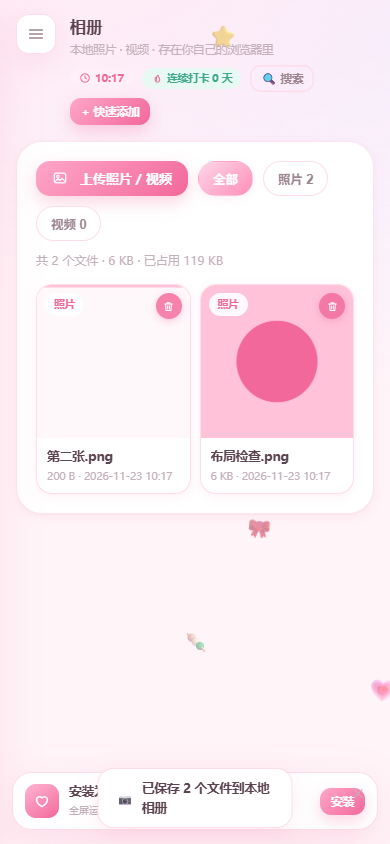
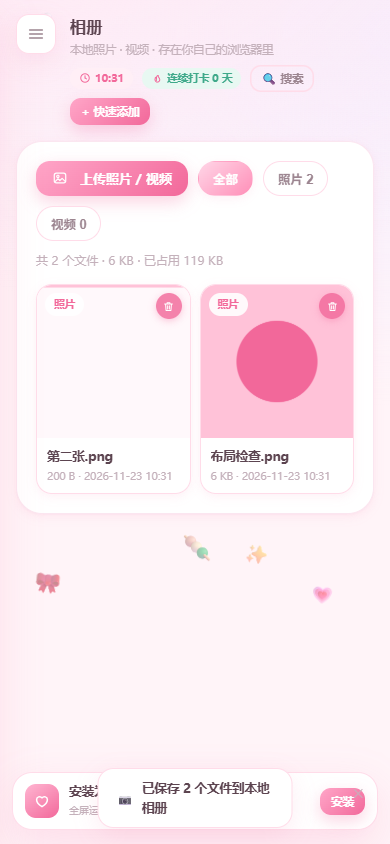
feat(web): v1.9.0 自动检测新版本并弹提示刷新
- 用样式化提示条（#swUpdateBar）替换原生 confirm：常驻可点、不打断流程
- 规范更新流程：updatefound→installed 存 waitingWorker → 点击 postMessage skip-waiting
  → controllerchange 统一 reload（带 3.5s 兜底），消除旧的「先发消息立即 reload」竞态
- 打开应用时主动 reg.update()，此后每 30 分钟后台复查
- 首次安装不弹提示（bootedWithController 区分首装会话，SW_UPDATED 仅在带旧版启动时响应）
- sw.js：activate 后向客户端广播 SW_UPDATED；message 兼容字符串/结构化两种 skip-waiting
- SW 缓存版本 xiaobao-desk-v1.9.0；test_web_robust 版本断言同步 1.9.0
- 新增 test_web_update.js（11 断言）：本地 http 服务器动态换 sw.js 版本，
  验证 首装无提示→update 后提示条出现→点击刷新→新 SW 接管+旧缓存清理
- 回归全绿：validate 0；lunar 45、gallery 26、calendar 24、profile 16、
  robust 10、daydetail 10、all-modules 42、update 11

diff --git a/index.html b/index.html
@@ -671,6 +671,21 @@ input[type=date]{cursor:pointer;}
 }
 @keyframes toastIn{from{opacity:0;transform:translateY(14px) scale(.94)}to{opacity:1;transform:none}}
 
+/* 版本更新提示条 */
+#swUpdateBar{
+  position:fixed;left:50%;bottom:64px;transform:translateX(-50%);z-index:350;
+  background:linear-gradient(140deg,#FF8FB8,#F2689A);color:#fff;
+  padding:11px 22px;border-radius:999px;border:none;cursor:pointer;
+  font-size:13px;font-weight:800;letter-spacing:.3px;
+  box-shadow:0 6px 22px rgba(242,104,154,.45);
+  animation:toastIn .3s cubic-bezier(.22,.85,.3,1);
+  transition:transform .15s;
+}
+#swUpdateBar:hover{transform:translateX(-50%) translateY(-2px);}
+@media (max-width:420px){
+  #swUpdateBar{bottom:74px;font-size:12.5px;padding:10px 18px;white-space:nowrap;}
+}
+
 /* 彩带 */
 .confetti{position:fixed;width:9px;height:9px;z-index:400;pointer-events:none;border-radius:2px;}
 
@@ -811,7 +826,7 @@ input[type=range]::-moz-range-thumb{
       <button class="btn ghost sm block" id="installBtn" style="display:none">添加到桌面 / 主屏幕</button>
       <button class="btn ghost sm block" id="themeBtn">切换夜间模式</button>
       <button class="btn ghost sm block" id="exportBtn">导出备份数据</button>
-      <div class="tiny" style="text-align:center;opacity:.55;padding-top:4px">Web v<span id="webVer">1.8.0</span></div>
+      <div class="tiny" style="text-align:center;opacity:.55;padding-top:4px">Web v<span id="webVer">1.9.0</span></div>
     </div>
   </aside>
 
@@ -1597,7 +1612,7 @@ function renderAll(){
 }
 /* 渲染兜底：任何一个模块渲染出错时给出明确提示（并显示错误信息方便定位），
    而不是静默空白 —— 旧标签页/旧缓存跑着半成品构建时也能看出该刷新了 */
-const WEB_VERSION='1.8.0';
+const WEB_VERSION='1.9.0';
 function safeRender(id,fn){
   return function(){
     try{ fn(); }
@@ -4042,29 +4057,58 @@ startClock();
 window.addEventListener('beforeunload',()=>{ if(dirty){ try{ localStorage.setItem(KEY,JSON.stringify(DB)); }catch(e){} } });
 
 /* =====================================================================
-   9. PWA：注册 Service Worker + 安装到主屏幕
+   9. PWA：注册 Service Worker + 版本更新提示 + 安装到主屏幕
    ===================================================================== */
 (function initPWA(){
   if(!('serviceWorker' in navigator)) return;
-  window.addEventListener('load',()=>{
-    navigator.serviceWorker.register('sw.js').then(reg=>{
-      // 发现新版本时提示更新
-      reg.addEventListener('updatefound',()=>{
-        const nw=reg.installing;
-        nw&&nw.addEventListener('statechange',()=>{
-          if(nw.state==='installed'&&navigator.serviceWorker.controller){
-            if(window.confirm('工作台有新版本，是否刷新以应用更新？')){
-              nw.postMessage('skip-waiting');
-              window.location.reload();
-            }
-          }
-        });
-      });
-    }).catch(()=>{ /* file:// 或静态环境不支持时静默降级 */ });
+  /* 页面启动时是否已有旧 SW 控制：首次安装的会话（启动时无 controller）
+     不弹更新提示 —— 此时拿到的本来就是最新版 */
+  const bootedWithController=!!navigator.serviceWorker.controller;
+  /* 更新提示条：不用原生 confirm（体验差且会打断流程），
+     常驻条 + 点击刷新，等新 SW 接管页面后再统一 reload 一次 */
+  let waitingWorker=null;
+  window.showUpdateBar=function(ver){
+    if(document.querySelector('#swUpdateBar')) return;
+    const bar=document.createElement('div');
+    bar.id='swUpdateBar';
+    bar.innerHTML=`✨ 发现新版本${ver?(' v'+String(ver).replace(/^xiaobao-desk-v/,'')):''} · 点此刷新`;
+    bar.onclick=()=>{
+      window.__swUpdateClicked=true;
+      (waitingWorker||navigator.serviceWorker.controller||{postMessage:()=>{}}).postMessage('skip-waiting');
+      /* controllerchange 到来后由下方监听统一 reload；兜底：3.5s 内没接管就直接刷 */
+      setTimeout(()=>{ if(document.querySelector('#swUpdateBar')) location.reload(); },3500);
+    };
+    document.body.appendChild(bar);
+  };
+  navigator.serviceWorker.addEventListener('message',e=>{
+    if(e.data&&e.data.type==='SW_UPDATED'&&bootedWithController&&navigator.serviceWorker.controller){
+      /* 新 SW 已接管（如另一标签页点了刷新）：提示本页也可刷新 */
+      window.showUpdateBar(e.data.version);
+    }
   });
   let refreshing=false;
   navigator.serviceWorker.addEventListener('controllerchange',()=>{
-    if(refreshing) return; refreshing=true; window.location.reload();
+    /* 仅在我们主动点「刷新」后重载，避免首次安装触发多余刷新 */
+    if(refreshing) return;
+    if(!window.__swUpdateClicked) return;
+    refreshing=true; window.location.reload();
+  });
+  window.addEventListener('load',()=>{
+    navigator.serviceWorker.register('sw.js').then(reg=>{
+      reg.addEventListener('updatefound',()=>{
+        const nw=reg.installing;
+        if(!nw) return;
+        nw.addEventListener('statechange',()=>{
+          if(nw.state==='installed'&&navigator.serviceWorker.controller){
+            waitingWorker=nw;
+            window.showUpdateBar();
+          }
+        });
+      });
+      /* 打开应用时主动检查一次新版本；此后每 30 分钟后台复查 */
+      reg.update().catch(()=>{});
+      setInterval(()=>reg.update().catch(()=>{}),30*60*1000);
+    }).catch(()=>{ /* file:// 或静态环境不支持时静默降级 */ });
   });
 })();
 

diff --git a/.spec/test_web_update.js b/.spec/test_web_update.js
@@ -1,0 +1,97 @@
+/* 版本更新提示真实流程测试：
+   本地 http 服务器托管仓库根目录，/sw.js 可动态换版本；
+   验证「打开无提示 → SW 更新后提示条出现 → 点击刷新 → 新 SW 接管」。 */
+const puppeteer = require('puppeteer-core');
+const http = require('http');
+const fs = require('fs');
+const path = require('path');
+const ROOT = path.resolve(__dirname, '..');
+
+let pass = 0, fail = 0;
+const t = (name, ok, extra) => { ok ? pass++ : fail++; console.log((ok ? '✓ ' : '✗ ') + name + (extra ? ' — ' + extra : '')); };
+const sleep = ms => new Promise(r => setTimeout(r, ms));
+
+const MIME = { '.html': 'text/html; charset=utf-8', '.js': 'text/javascript', '.webmanifest': 'application/manifest+json', '.png': 'image/png', '.json': 'application/json' };
+let swVersion = 'v1.9.0'; // 服务器当前提供的 SW 版本（测试中途换成 v1.9.1）
+
+const server = http.createServer((req, res) => {
+  let p = decodeURIComponent((req.url || '/').split('?')[0]);
+  if (p === '/') p = '/index.html';
+  if (p === '/sw.js') {
+    const base = fs.readFileSync(path.join(ROOT, 'sw.js'), 'utf8');
+    const body = base.replace(/xiaobao-desk-v[\d.]+/, 'xiaobao-desk-' + swVersion);
+    res.writeHead(200, { 'Content-Type': MIME['.js'] });
+    res.end(body);
+    return;
+  }
+  const file = path.join(ROOT, p);
+  if (!fs.existsSync(file)) { res.writeHead(404); res.end('not found'); return; }
+  res.writeHead(200, { 'Content-Type': MIME[path.extname(file)] || 'application/octet-stream' });
+  res.end(fs.readFileSync(file));
+});
+
+(async () => {
+  await new Promise(r => server.listen(0, '127.0.0.1', r));
+  const PORT = server.address().port;
+  const URLBASE = 'http://127.0.0.1:' + PORT + '/';
+
+  const browser = await puppeteer.launch({
+    executablePath: 'C:/Program Files/Google/Chrome/Application/chrome.exe',
+    headless: 'new', args: ['--no-sandbox']
+  });
+  const page = await browser.newPage();
+  await page.setViewport({ width: 390, height: 844 });
+  const jsErrors = [];
+  page.on('pageerror', e => jsErrors.push(e.message));
+  page.on('console', m => { if (m.type() === 'error' && !/manifest|ERR_FAILED/.test(m.text())) jsErrors.push(m.text()); });
+
+  // 1. 首次打开：注册 SW、拿到控制权
+  await page.goto(URLBASE, { waitUntil: 'load' });
+  const controlled = await page.waitForFunction(() => !!navigator.serviceWorker.controller, { timeout: 15000 }).then(() => true).catch(() => false);
+  t('首次打开后 SW 已接管页面（secure context + http 127.0.0.1）', controlled);
+  await sleep(800);
+
+  // 2. 打开应用时不应有更新提示条（首次安装不发提示）
+  let bar = await page.$('#swUpdateBar');
+  t('首次打开无更新提示条', !bar);
+  t('首访无多余刷新（页面正常渲染）', await page.evaluate(() => document.querySelector('#page-home') && document.body.innerHTML.length > 1000));
+
+  // 3. 侧边栏版本为静态 1.9.0
+  const ver = await page.$eval('#webVer', el => el.textContent);
+  t('侧边栏显示 Web v1.9.0', ver === '1.9.0', ver);
+
+  // 4. 服务器换新版本 → 页面主动 reg.update() → 提示条出现
+  swVersion = 'v1.9.1';
+  await page.evaluate(() => navigator.serviceWorker.ready.then(r => r.update()));
+  const barShown = await page.waitForFunction(() => !!document.querySelector('#swUpdateBar'), { timeout: 15000 }).then(() => true).catch(() => false);
+  t('SW 检测到新版本后出现提示条', barShown);
+  const barText = barShown ? await page.$eval('#swUpdateBar', el => el.textContent) : '';
+  t('提示条文案含「发现新版本」', /发现新版本/.test(barText), barText);
+
+  // 5. 点击提示条 → skip-waiting → controllerchange → 页面 reload → 新 SW 接管
+  if (barShown) {
+    await page.click('#swUpdateBar');
+    await page.waitForNavigation({ waitUntil: 'load', timeout: 15000 }).catch(() => {});
+    await sleep(1200);
+    const after = await page.evaluate(async () => {
+      const cachesNow = await (window.caches ? caches.keys() : Promise.resolve([]));
+      return {
+        bar: !!document.querySelector('#swUpdateBar'),
+        controlled: !!navigator.serviceWorker.controller,
+        caches: cachesNow
+      };
+    });
+    t('点击刷新后提示条消失（新会话无待更新）', !after.bar);
+    t('刷新后新 SW 接管页面', after.controlled);
+    t('旧缓存已清理、新缓存 v1.9.1 生效', after.caches.some(k => /v1\.9\.1/.test(k)) && !after.caches.some(k => /v1\.9\.0/.test(k)),
+      after.caches.join(', '));
+    t('刷新后页面功能正常', await page.evaluate(() => document.body.innerHTML.length > 1000 && typeof renderGallery === 'function'));
+  }
+
+  t('全程无 JS 报错', jsErrors.length === 0, jsErrors.slice(0, 2).join(' | '));
+
+  await browser.close();
+  server.close();
+  console.log('\n---- ' + pass + ' passed, ' + fail + ' failed ----');
+  process.exit(fail ? 1 : 0);
+})().catch(e => { console.error('运行异常', e); try { server.close(); } catch (err) {} process.exit(1); });

diff --git a/sw.js b/sw.js
@@ -1,7 +1,7 @@
 /* 小宝工作台 Service Worker
    策略：预缓存核心资源；请求时 cache-first + 后台更新（stale-while-revalidate），
    离线时直接读取缓存，保证断网也能正常使用全部功能。 */
-const VERSION = 'xiaobao-desk-v1.8.0';
+const VERSION = 'xiaobao-desk-v1.9.0';
 const CORE = [
   './',
   './index.html',
@@ -23,6 +23,8 @@ self.addEventListener('activate', (e) => {
     caches.keys()
       .then((keys) => Promise.all(keys.filter((k) => k !== VERSION).map((k) => caches.delete(k))))
       .then(() => self.clients.claim())
+      .then(() => self.clients.matchAll({ type: 'window', includeUncontrolled: true }))
+      .then((cls) => cls.forEach((c) => c.postMessage({ type: 'SW_UPDATED', version: VERSION })))
   );
 });
 
@@ -48,9 +50,9 @@ self.addEventListener('fetch', (e) => {
   );
 });
 
-/* 用户点击「更新」消息时立即接管 */
+/* 用户点击「更新」消息时立即接管（兼容字符串与结构化两种消息） */
 self.addEventListener('message', (e) => {
-  if (e.data === 'skip-waiting') self.skipWaiting();
+  if (e.data === 'skip-waiting' || (e.data && e.data.type === 'SKIP_WAITING')) self.skipWaiting();
 });
 
 /* 服务端推送（如微信/自建后端定时推送）：收到后弹出系统通知 */

diff --git a/.spec/test_web_robust.js b/.spec/test_web_robust.js
@@ -27,11 +27,11 @@ function check(ok, msg) { console.log((ok ? '  PASS ' : '  FAIL ') + msg); ok ? 
   const fb = await page.evaluate(() => (document.querySelector('#page-templates') || { innerHTML: '' }).innerHTML);
   check(fb.includes('这个页面暂时打不开'), '出错页显示兜底提示卡片');
   check(fb.includes('模拟渲染故障'), '兜底卡片展示错误信息（方便反馈定位）');
-  check(fb.includes('Web v1.8.0'), '兜底卡片带版本号');
+  check(fb.includes('Web v1.9.0'), '兜底卡片带版本号');
 
   console.log('=== A/3 侧边栏显示版本号 ===');
   const ver = await page.evaluate(() => (document.querySelector('#webVer') || {}).textContent);
-  check(ver === '1.8.0', '侧边栏底部显示 Web v1.8.0');
+  check(ver === '1.9.0', '侧边栏底部显示 Web v1.9.0');
 
   console.log('=== B/1 恢复后模板页内容完整 ===');
   await page.reload({ waitUntil: 'networkidle0' });
